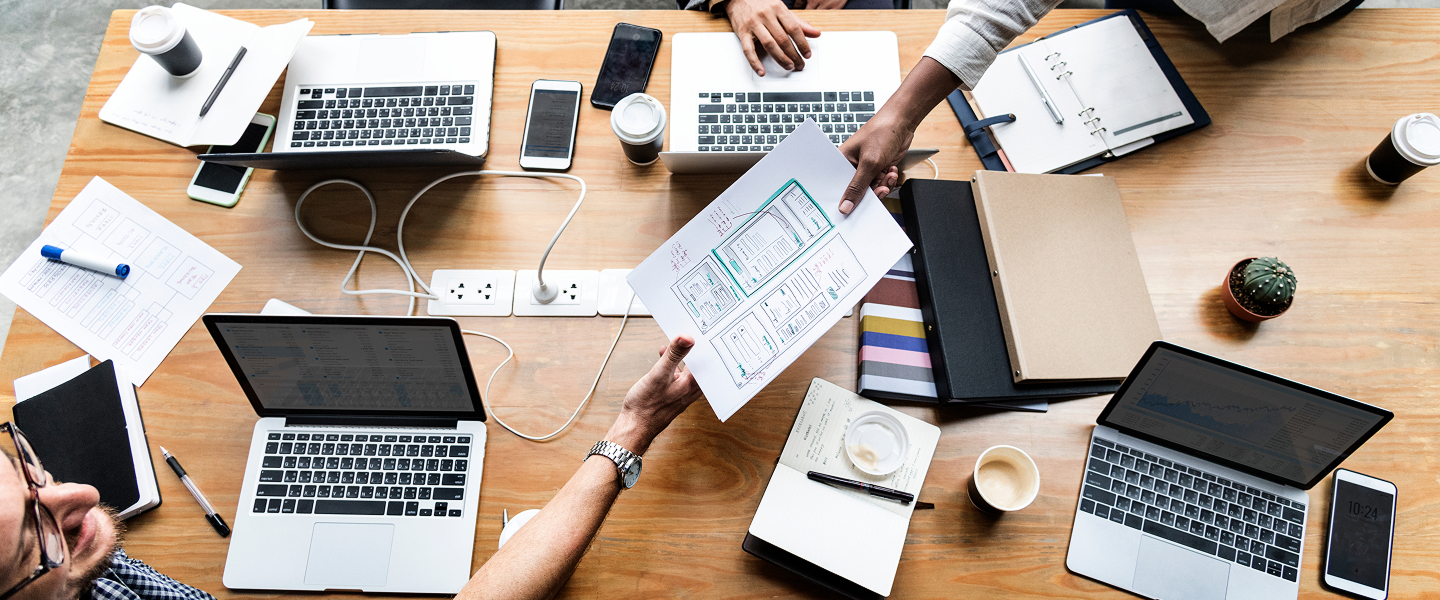
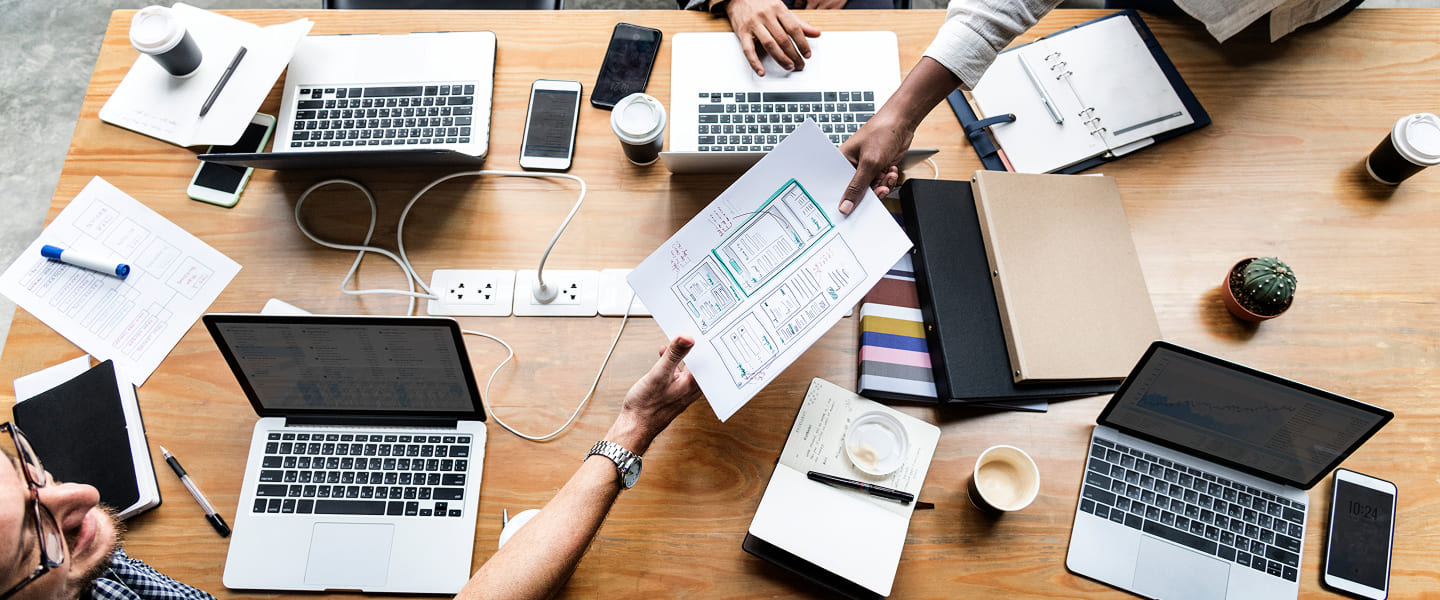
compress bg image

Changed region(s): [[0.4688, 0.42, 0.5625, 0.51], [0.5312, 0.3, 0.5625, 0.36], [0.4062, 0.75, 0.4375, 0.78]]

diff --git a/css/hero.css b/css/hero.css
@@ -5,7 +5,7 @@
       rgba(46, 47, 66, 0.7) 0%,
       rgba(46, 47, 66, 0.7) 100%
     ),
-    url(./images/hero-bg.jpg);
+    url(../images/hero-bg.jpg);
   background-position:
     top right,
     center;
